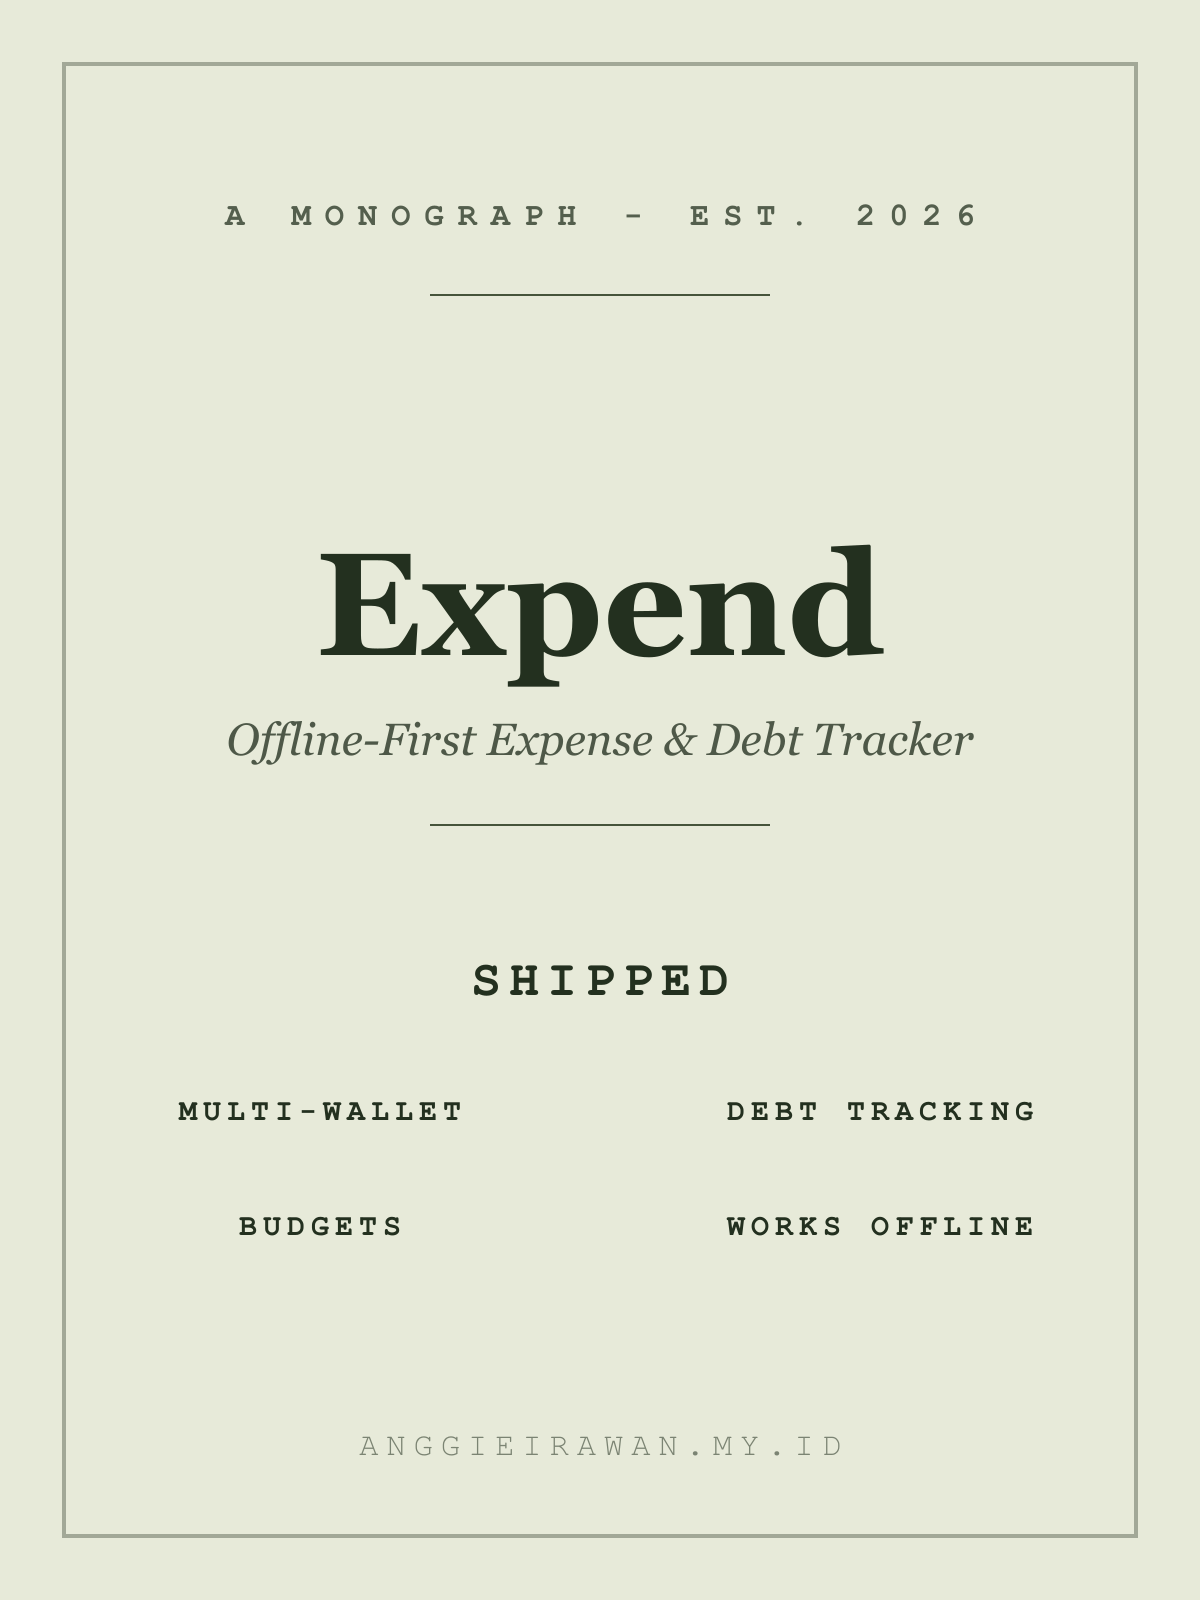
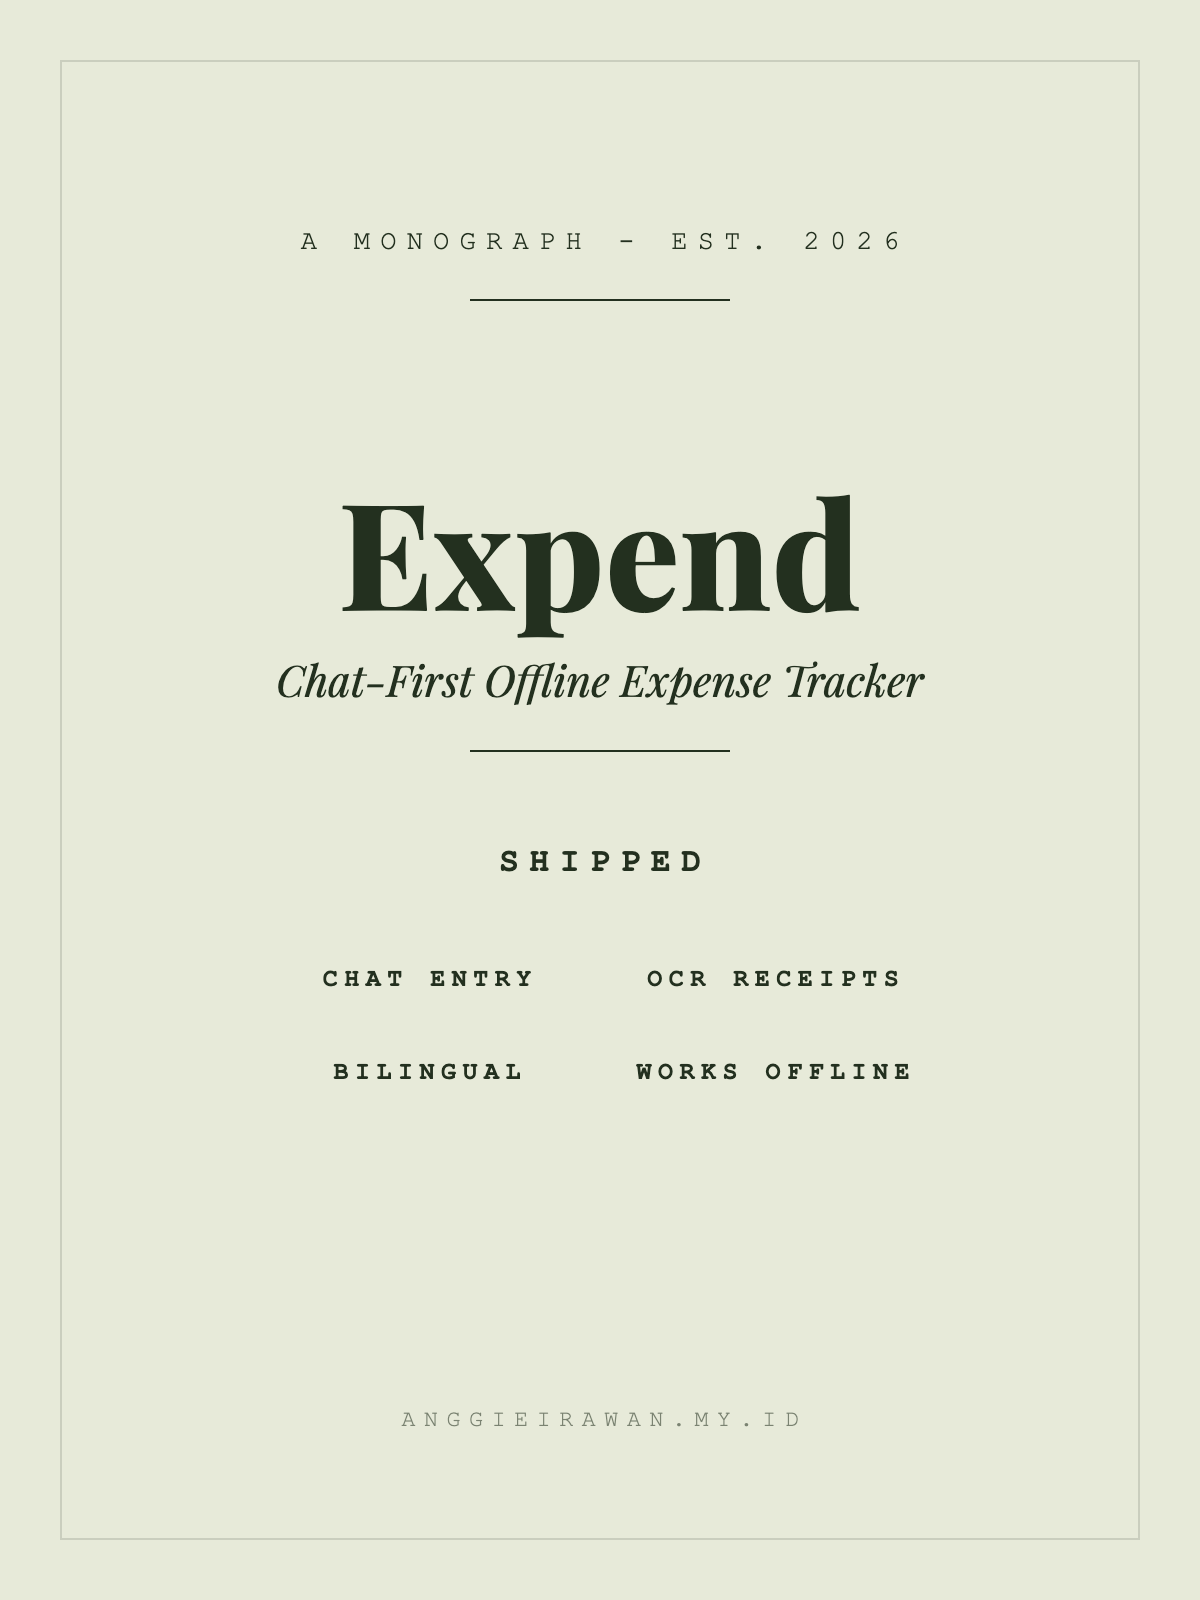
content(projects): sync copy, stacks, plates, and metadata with live repos

diff --git a/lib/projects.ts b/lib/projects.ts
@@ -1,8 +1,10 @@
 /**
  * Portfolio project data.
  *
- * Copy is extracted VERBATIM from the original single-page sections in
- * `app/page.tsx` — do not paraphrase, rewrite, or "improve" any of this text.
+ * Copy is kept in sync with the live GitHub repos under `eiaiproject`
+ * (last audit: Oct 2026 — Expend, Invois, Ledjer, Zipto). Descriptions and
+ * stack lines mirror each repo's `package.json` + README; lessons stay in
+ * the author's own voice.
  *
  * Records are stored as compact tuples (one field per element, order follows
  * the Project interface) and mapped back by `toProject()`. The four entries
@@ -80,11 +82,11 @@ export const PROJECTS: Project[] = [
     "expend",
     "Expend",
     "Shipped",
-    "Offline-First Expense & Debt Tracker",
-    "Individuals and small teams lose track of small daily expenses because existing tools require accounts, subscriptions, or constant connectivity. Expend gives them a private, offline-first PWA to log expenses in seconds, with no setup and no data lock-in.",
-    ["Quick entry", "Categories", "Multi-currency", "Works offline"],
+    "Chat-First Offline Expense Tracker",
+    "Individuals lose track of small daily expenses because existing tools require accounts or constant connectivity. Expend gives them a private, offline-first PWA to log expenses in seconds via chat or scan receipts with on-device OCR, with no setup and no data lock-in.",
+    ["Chat entry", "OCR receipts", "Bilingual", "Works offline"],
     "\u201CLocal-first architecture teaches more about data modeling and state management than any API tutorial.\u201D",
-    "Stack: Next.js, React, TypeScript, Tailwind CSS, IndexedDB, Recharts, PWA",
+    "Stack: React 19, Vite, Tailwind CSS 4, Dexie (IndexedDB), React Router 7, Tesseract.js, PWA",
     "https://expend.pages.dev",
     "View Live App",
     "/expend-plate.png",
@@ -98,7 +100,7 @@ export const PROJECTS: Project[] = [
     "Freelancers and small businesses need a fast way to create invoices and receipts without being locked into a server account or losing access when offline.",
     ["PDF export", "Reusable clients", "Auto-numbering", "Works offline"],
     "\u201CDocument workflows need careful state rules: paid invoices, linked receipts, and local persistence all have to agree before the UI feels trustworthy.\u201D",
-    "Stack: React, TypeScript, Vite, React Router, IndexedDB, jsPDF, PWA",
+    "Stack: React, TypeScript, Vite, React Router, IndexedDB, jsPDF, JSZip, PWA",
     "https://invois.pages.dev",
     "View Live App",
     /* NOTE: filename is intentionally "invoiz-plate.png" (not "invois") —
@@ -112,10 +114,10 @@ export const PROJECTS: Project[] = [
     "Ledjer",
     "Active Development",
     "Double-Entry Bookkeeping for UMKM",
-    "Indonesian MSMEs need double-entry bookkeeping that follows local accounting standards (PSAK), supports multiple users, and runs on phones without spreadsheet complexity.",
-    ["14 transaction types", "Multi-tenant", "Financial reports", "Stock management"],
+    "Indonesian MSMEs need double-entry bookkeeping in Bahasa Indonesia without spreadsheet complexity. Ledjer records cash, stock, and capital on Cloudflare's edge with balanced journals, void with audit trail, and profit-loss, balance-sheet, and ledger reports.",
+    ["6 transaction types", "Double-entry", "Financial reports", "Stock & HPP"],
     "\u201CRigid financial systems need database-level validation to guarantee data integrity regardless of frontend state.\u201D",
-    "Stack: React 19, Vite, Tailwind CSS 4, React Router 7, TanStack Query 5, Supabase, PostgreSQL",
+    "Stack: React 19, Vite, Tailwind CSS 4, TanStack Query, Hono, Cloudflare D1, R2, Workers",
     "https://ledjer.id",
     "View Current Build",
     "/ledjer-plate.png",

diff --git a/app/layout.tsx b/app/layout.tsx
@@ -89,12 +89,19 @@ export default function RootLayout({
         {/* Preload project plates so they are decoded before the reader
             flips to each spread (plates are 3D-rotated off-screen at rest,
             so lazy loading never fires the IntersectionObserver in time). */}
-        <link rel="preload" as="image" href="/expend-plate.png" />
-        <link rel="preload" as="image" href="/invoiz-plate.png" />
-        <link rel="preload" as="image" href="/ledjer-plate.png" />
-        <link rel="preload" as="image" href="/zipto-plate.png" />
+        <link rel="preload" as="image" href="/expend-plate.webp" type="image/webp" />
+        <link rel="preload" as="image" href="/invoiz-plate.webp" type="image/webp" />
+        <link rel="preload" as="image" href="/ledjer-plate.webp" type="image/webp" />
+        <link rel="preload" as="image" href="/zipto-plate.webp" type="image/webp" />
       </head>
       <body>
+        <noscript>
+          <p className="noscript-note">
+            This monograph turns its pages with JavaScript. With it off,
+            reach every project directly: expend.pages.dev, invois.pages.dev,
+            ledjer.id, zipto.pages.dev.
+          </p>
+        </noscript>
         <main id="main-content" tabIndex={-1}>
           {children}
         </main>
@@ -102,7 +109,7 @@ export default function RootLayout({
           <span>&copy; 2026 Anggie Irawan</span>
         </footer>
 
-        {/* ═══ JSON-LD Structured Data ═══ */}
+        {/* JSON-LD structured data. */}
         <script
           type="application/ld+json"
           dangerouslySetInnerHTML={{
@@ -123,7 +130,7 @@ export default function RootLayout({
                     "@type": "SoftwareApplication",
                     position: 1,
                     name: "Expend",
-                    description: "Offline-First Expense & Debt Tracker",
+                    description: "Chat-First Offline Expense Tracker",
                     applicationCategory: "FinanceApplication",
                     url: "https://expend.pages.dev",
                     offers: { "@type": "Offer", price: "0", priceCurrency: "USD" },
